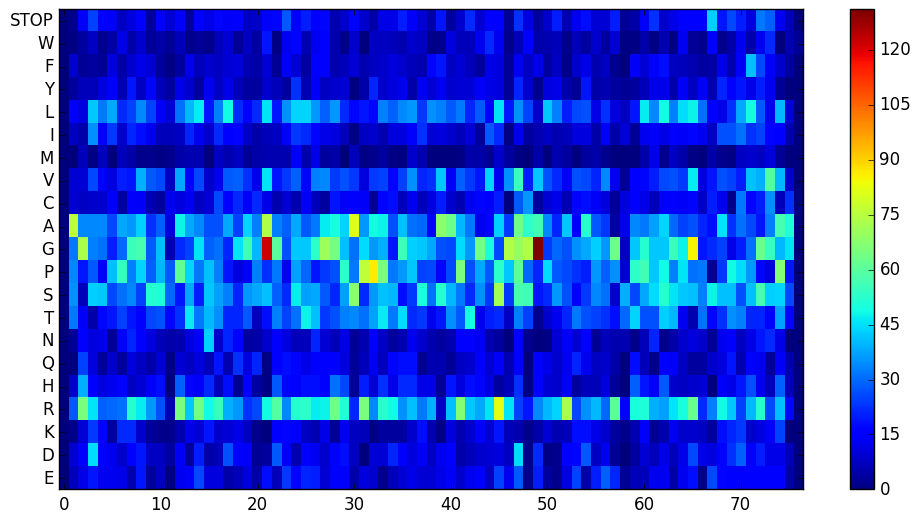
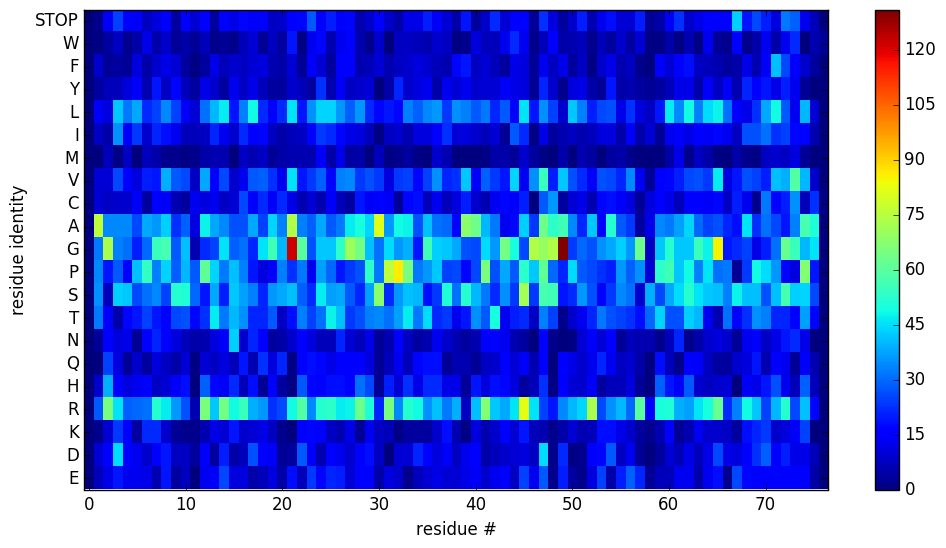
doug update

diff --git a/doug_script.py b/doug_script.py
@@ -5,8 +5,6 @@ import numpy as np
 # key: barcode sequence   value: (codon number, codon)
 allele_dic = pickle.load(open('allele_dic_with_WT.pkl','rb'))
 
-print allele_dic
-
 # key: amino acid   value: number
 amino_to_number = pickle.load(open('aminotonumber.pkl', 'rb'))
 
@@ -35,12 +33,13 @@ for i in range(len(ub)):
 plt.figure(figsize=(12,6))
 plt.imshow(a, interpolation='nearest', aspect='auto')
 plt.colorbar()
-column_labels = range(77)
 rows = ["" for k in range(21)]
 for amino in amino_to_number:
 	rows[amino_to_number[amino]] = amino
-row_labels = rows
-plt.yticks(range(21), row_labels)
+
+plt.yticks(range(21), rows)
+plt.xlabel('residue #')
+plt.ylabel('residue identity')
 plt.savefig('doug_figure.png', bbox_inches='tight')
 
 pickle.dump(a, open('doug_array.pkl', 'w'))
